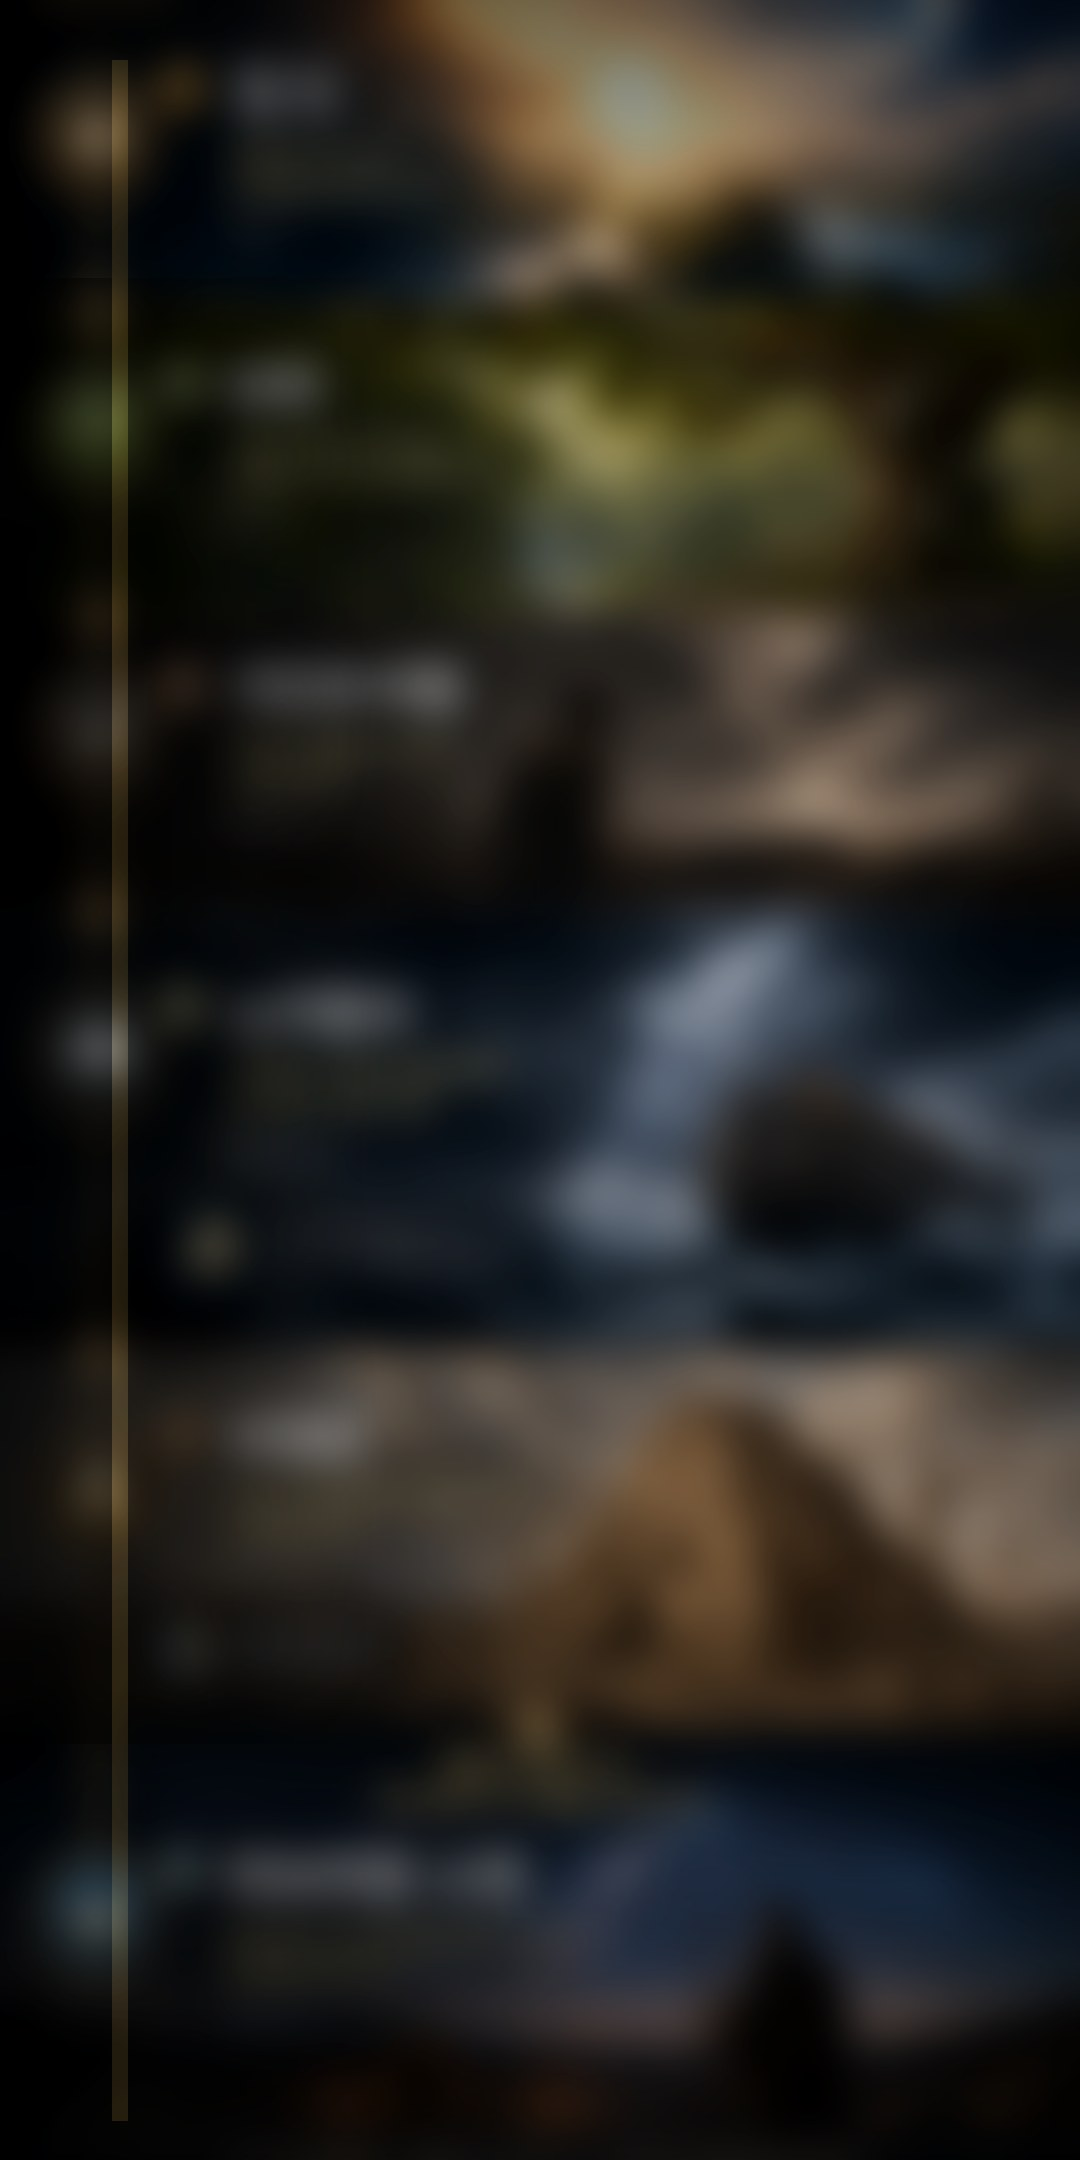
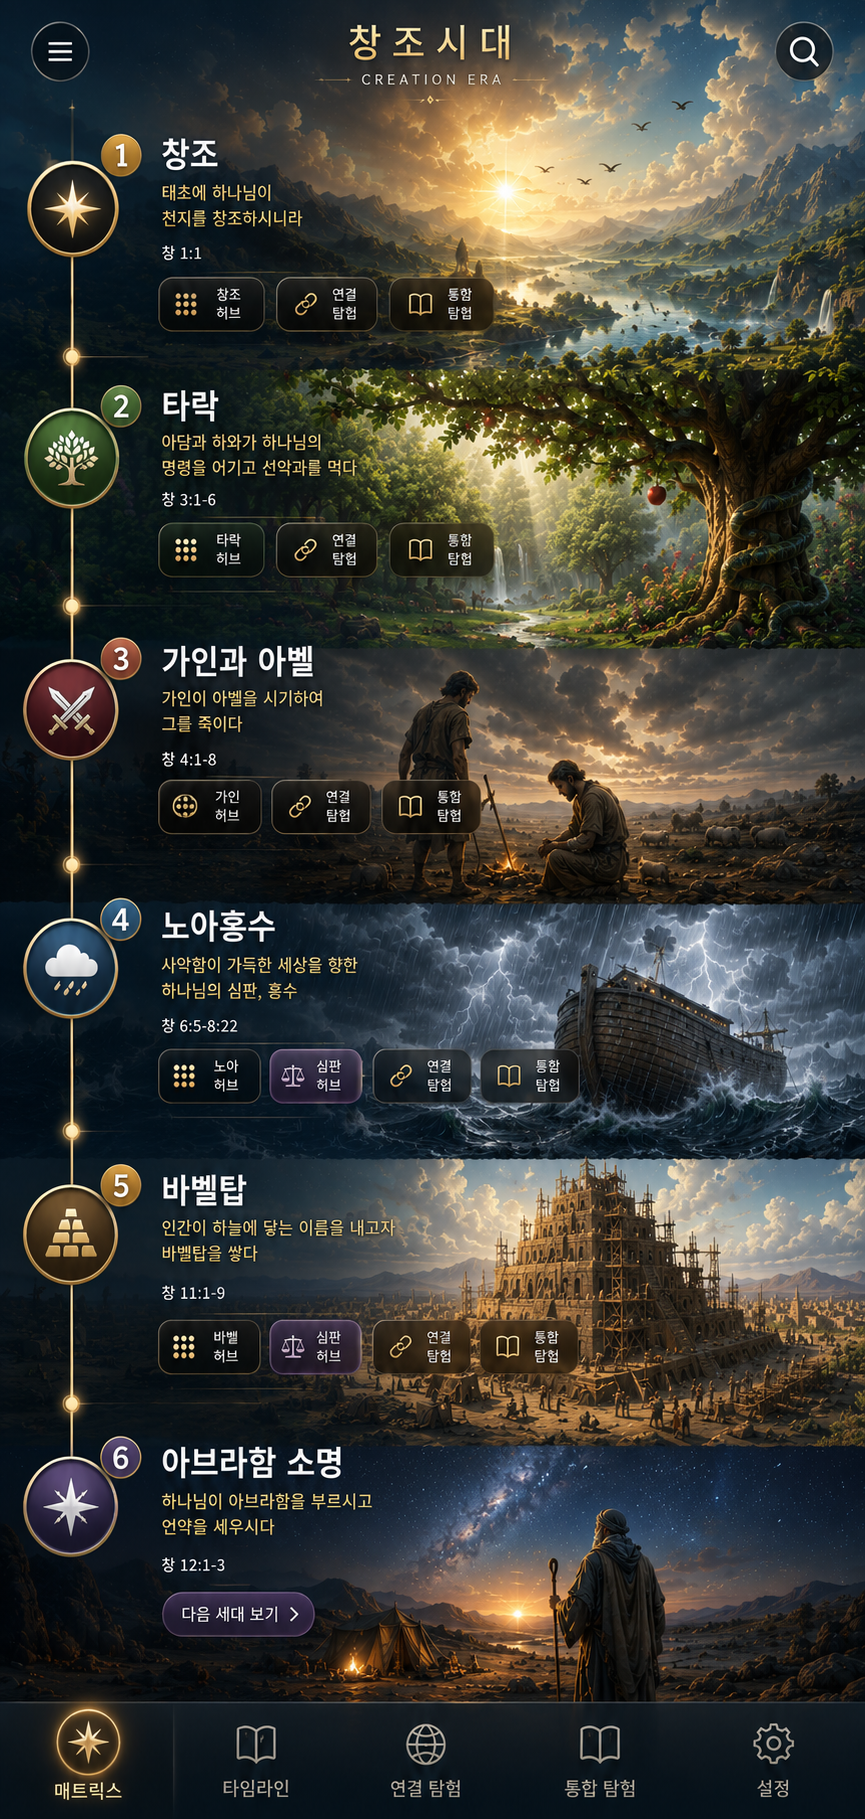
Add files via upload

diff --git a/index.html b/index.html
@@ -3,7 +3,7 @@
 <head>
 <meta charset="utf-8" />
 <meta name="viewport" content="width=device-width, initial-scale=1, viewport-fit=cover" />
-<title>창조시대 Matrix v6</title>
+<title>창조시대 Matrix v9</title>
 <link rel="manifest" href="./manifest.webmanifest" />
 <meta name="theme-color" content="#071017" />
 <style>
@@ -19,17 +19,17 @@ body{display:flex;justify-content:center}
 .stage{position:relative;width:100%;line-height:0;padding-bottom:74px;background:#071017}
 .bg{display:block;width:100%;height:auto;filter:saturate(1.03) contrast(1.02) brightness(.98);user-select:none;pointer-events:none}
 /* 기준 이미지 865×1819 기준으로 % 좌표화. 배경 텍스트 제거 전에도 겹침이 덜 보이도록 텍스트 뒤에만 얇은 스크림을 둔다. */
-.scrim{position:absolute;left:15.5%;width:43%;height:8.7%;border-radius:18px;background:linear-gradient(90deg,rgba(4,8,13,.46),rgba(4,8,13,.24),rgba(4,8,13,0));filter:blur(.2px);z-index:2;pointer-events:none}
+.scrim{position:absolute;left:15.5%;width:48%;height:8.9%;border-radius:18px;background:linear-gradient(90deg,rgba(3,7,12,.82),rgba(3,7,12,.62),rgba(3,7,12,.18),rgba(3,7,12,0));filter:blur(.15px);z-index:2;pointer-events:none}
 .s1{top:7.15%}.s2{top:19.4%}.s3{top:32.8%}.s4{top:45.85%}.s5{top:59.2%}.s6{top:72.15%;height:7.8%}
-.titleLayer{position:absolute;z-index:5;left:50%;top:1.55%;transform:translateX(-50%);width:52%;text-align:center;line-height:1;text-shadow:0 3px 12px rgba(0,0,0,.95)}
+.titleLayer{position:absolute;z-index:5;left:50%;top:1.55%;transform:translateX(-50%);width:52%;text-align:center;line-height:1;text-shadow:0 3px 12px rgba(0,0,0,.95)}.titleLayer::before{content:"";position:absolute;inset:-10px -18px -8px;border-radius:20px;background:radial-gradient(ellipse at center,rgba(5,9,14,.68),rgba(5,9,14,.36),rgba(5,9,14,0));z-index:-1;pointer-events:none}
 .titleLayer h1{margin:0;font-size:clamp(24px,6.2vw,42px);letter-spacing:.16em;color:#f6dfaa;font-weight:800}.titleLayer p{margin:7px 0 0;font-size:clamp(8.5px,1.9vw,12px);letter-spacing:.18em;color:#dfc284;font-weight:650}
 .eventTitle{position:absolute;z-index:6;left:18.0%;width:44%;line-height:1.04;text-shadow:0 3px 8px rgba(0,0,0,.95),0 0 18px rgba(0,0,0,.82)}
-.eventTitle h2{margin:0;color:var(--white);font-size:clamp(11px,2.75vw,18px);font-weight:600;letter-spacing:-.055em;white-space:nowrap}.eventTitle .desc{margin:.32em 0 0;color:#ffe28a;font-size:clamp(7.8px,1.75vw,10.5px);font-weight:700;line-height:1.28;letter-spacing:-.05em;word-break:keep-all;overflow-wrap:normal}.eventTitle .ref{margin:.42em 0 0;color:#fff;font-size:clamp(7.4px,1.55vw,9.2px);font-weight:650;opacity:.95}
+.eventTitle h2{margin:0;color:var(--white);font-size:clamp(15px,3.75vw,24px);font-weight:950;letter-spacing:-.075em;white-space:nowrap;text-shadow:0 4px 10px rgba(0,0,0,.98),0 0 18px rgba(0,0,0,.9)}.eventTitle .desc{margin:.42em 0 0;color:#ffe28a;font-size:clamp(7.8px,1.75vw,10.5px);font-weight:760;line-height:1.28;letter-spacing:-.05em;word-break:keep-all;overflow-wrap:normal;text-shadow:0 3px 7px rgba(0,0,0,.95)}.eventTitle .ref{margin:.42em 0 0;color:#fff;font-size:clamp(7.4px,1.55vw,9.2px);font-weight:700;opacity:.96;text-shadow:0 2px 6px rgba(0,0,0,.92)}
 .t1{top:7.35%}.t2{top:19.95%}.t3{top:33.3%}.t4{top:46.4%}.t5{top:59.8%}.t6{top:72.8%}
 /* 버튼은 각 사건 박스의 상단~2/3 지점 사이, 같은 X축 기준으로 정렬 */
 .btnRow{position:absolute;z-index:7;left:51.2%;width:44.4%;display:grid;grid-auto-flow:column;grid-auto-columns:minmax(0,1fr);gap:1.4%;height:3.35%;line-height:1}
-.r1{top:13.65%}.r2{top:24.6%}.r3{top:35.85%}.r4{top:52.9%}.r5{top:66.55%}
-.matrixBtn{border:1px solid rgba(247,216,137,.52);border-radius:12px;background:linear-gradient(180deg,rgba(18,21,24,.84),rgba(5,8,12,.82));box-shadow:0 6px 16px rgba(0,0,0,.38), inset 0 1px 0 rgba(255,255,255,.08);backdrop-filter:blur(5px);color:#f7ead0;font-size:clamp(8px,1.85vw,10.5px);font-weight:850;text-shadow:0 1px 2px rgba(0,0,0,.85);display:flex;align-items:center;justify-content:center;gap:4px;line-height:1.05;padding:0 4px;cursor:pointer;min-width:0;white-space:normal;text-align:center}.matrixBtn .ico{font-size:1.22em;color:var(--gold);line-height:1}.matrixBtn.judgment{border-color:rgba(235,132,171,.75);background:linear-gradient(180deg,rgba(64,33,49,.86),rgba(18,10,17,.82))}.matrixBtn.covenant{border-color:rgba(208,155,255,.72);background:linear-gradient(180deg,rgba(51,36,75,.85),rgba(14,10,24,.83))}.matrixBtn.nations{border-color:rgba(245,185,81,.75);background:linear-gradient(180deg,rgba(83,55,18,.86),rgba(22,14,6,.82))}
+.r1{top:13.65%}.r2{top:24.6%}.r3{top:37.15%}.r4{top:52.9%}.r5{top:66.55%}
+.matrixBtn{border:1px solid rgba(247,216,137,.58);border-radius:12px;background:linear-gradient(180deg,rgba(18,21,24,.93),rgba(5,8,12,.92));box-shadow:0 6px 16px rgba(0,0,0,.38), inset 0 1px 0 rgba(255,255,255,.08);backdrop-filter:blur(5px);color:#f7ead0;font-size:clamp(8px,1.85vw,10.5px);font-weight:850;text-shadow:0 1px 2px rgba(0,0,0,.85);display:flex;align-items:center;justify-content:center;gap:4px;line-height:1.05;padding:0 4px;cursor:pointer;min-width:0;white-space:normal;text-align:center}.matrixBtn .ico{font-size:1.22em;color:var(--gold);line-height:1}.matrixBtn.judgment{border-color:rgba(235,132,171,.75);background:linear-gradient(180deg,rgba(64,33,49,.94),rgba(18,10,17,.92))}.matrixBtn.covenant{border-color:rgba(208,155,255,.72);background:linear-gradient(180deg,rgba(51,36,75,.94),rgba(14,10,24,.92))}.matrixBtn.nations{border-color:rgba(245,185,81,.75);background:linear-gradient(180deg,rgba(83,55,18,.94),rgba(22,14,6,.92))}
 /* 6번은 사건이 아니라 다음 시대 입구로 보이게 상징 오른쪽 아래로 분리 */
 .nextBtn{position:absolute;z-index:8;left:18.0%;top:78.9%;height:3.3%;min-width:22%;padding:0 4%;border:1px solid rgba(208,155,255,.66);border-radius:999px;background:linear-gradient(180deg,rgba(72,47,101,.86),rgba(25,14,43,.88));color:#f3e8ff;font-size:clamp(10px,2.45vw,15px);font-weight:850;box-shadow:0 7px 18px rgba(0,0,0,.4);text-shadow:0 1px 3px rgba(0,0,0,.75);cursor:pointer}
 .hot{position:absolute;z-index:6;border:0;background:transparent;cursor:pointer;border-radius:18px}.hot:focus-visible{outline:2px solid var(--gold);background:rgba(247,216,137,.11)}

diff --git a/service-worker.js b/service-worker.js
@@ -1,4 +1,4 @@
-const CACHE='creation-matrix-true-portrait-v1';
+const CACHE='creation-matrix-v8-sharp-overlay-v9';
 self.addEventListener('install',e=>{e.waitUntil(caches.open(CACHE).then(c=>c.addAll(['./','./index.html','./manifest.webmanifest'])));self.skipWaiting();});
 self.addEventListener('activate',e=>{e.waitUntil(caches.keys().then(keys=>Promise.all(keys.filter(k=>k!==CACHE).map(k=>caches.delete(k)))));self.clients.claim();});
 self.addEventListener('fetch',e=>{e.respondWith(caches.match(e.request).then(r=>r||fetch(e.request)));});

diff --git a/sw.js b/sw.js
@@ -1,4 +1,4 @@
-const CACHE='creation-matrix-precision-v1';
+const CACHE='creation-matrix-v8-sharp-overlay-v9';
 self.addEventListener('install',e=>{e.waitUntil(caches.open(CACHE).then(c=>c.addAll(['./','./index.html','./bg-approved.png','./manifest.webmanifest'])));self.skipWaiting();});
 self.addEventListener('activate',e=>{e.waitUntil(caches.keys().then(keys=>Promise.all(keys.filter(k=>k!==CACHE).map(k=>caches.delete(k)))));self.clients.claim();});
 self.addEventListener('fetch',e=>{e.respondWith(caches.match(e.request).then(r=>r||fetch(e.request)));});